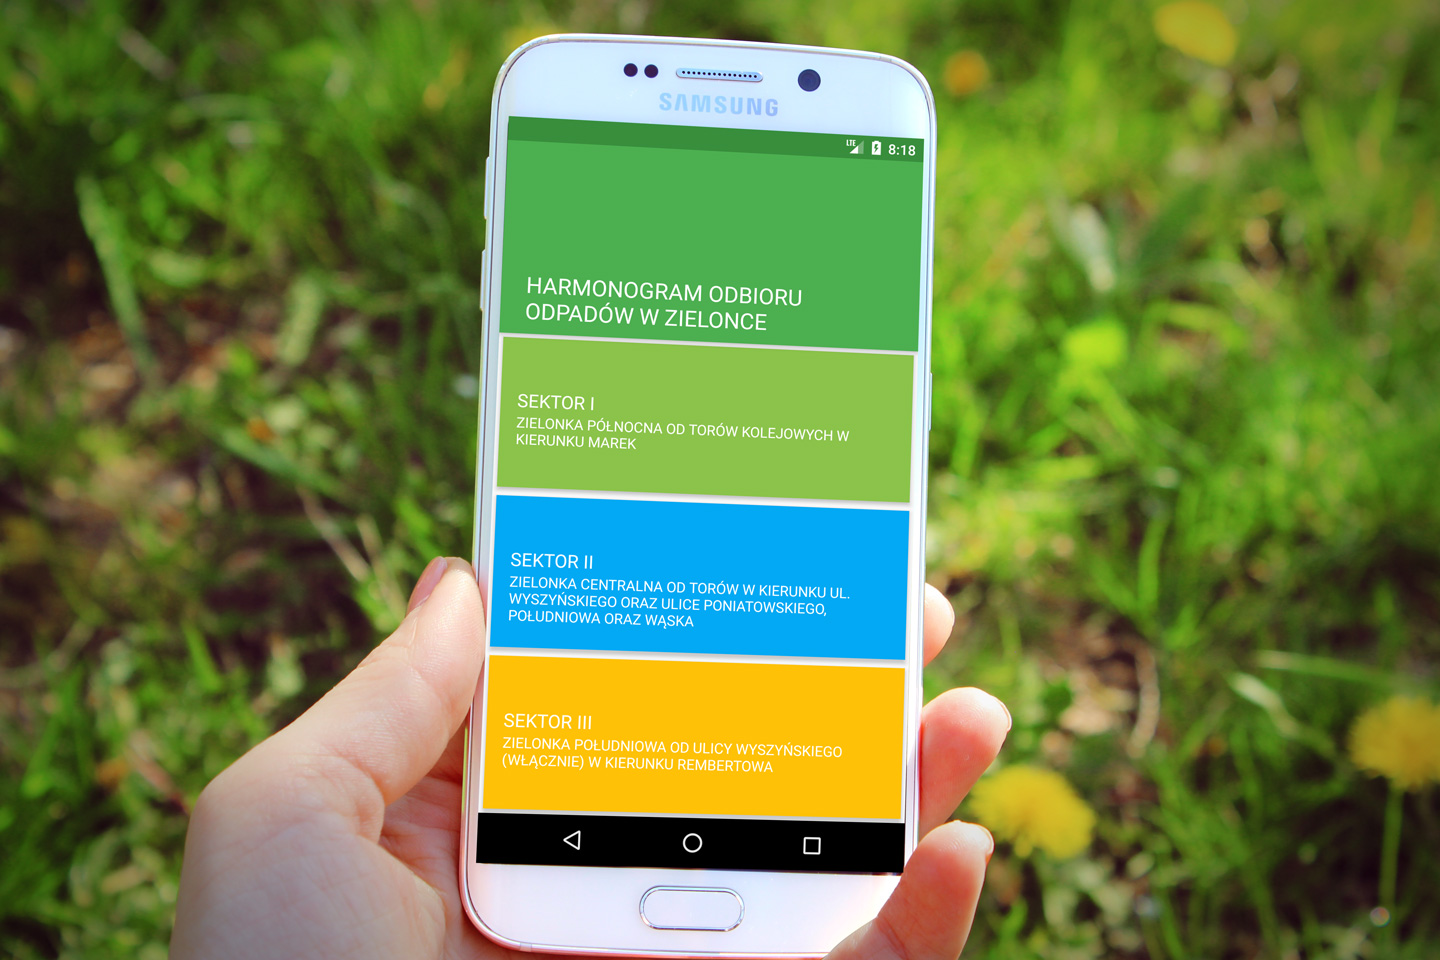
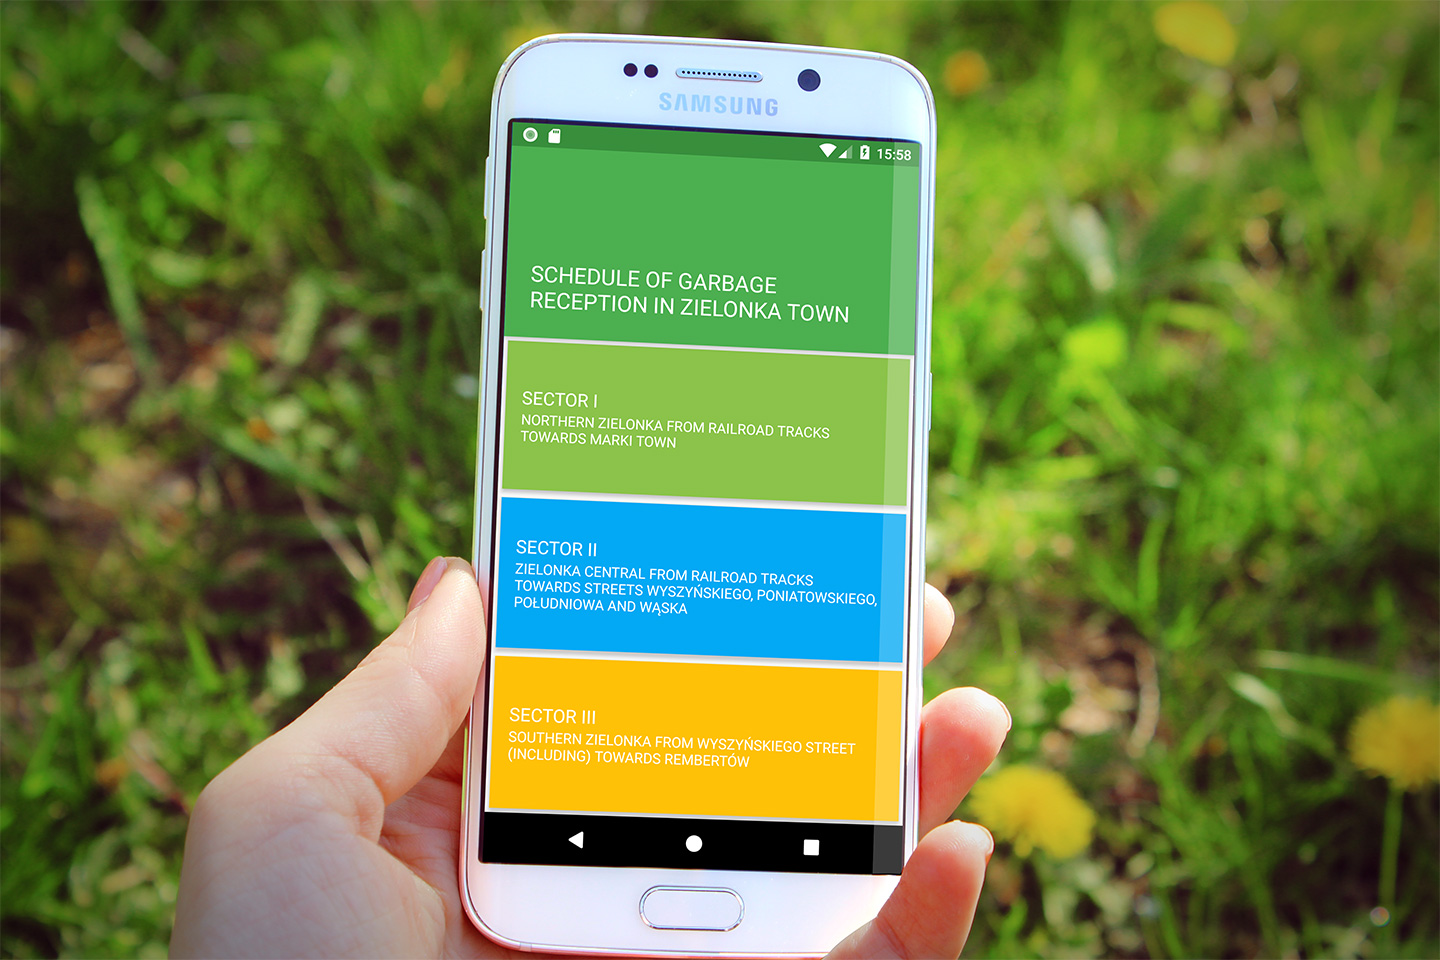
Change some text

Changed region(s): [[0.3125, 0.0938, 0.6562, 0.9375], [0.375, 0.8438, 0.4062, 0.9062]]

diff --git a/src/App.vue b/src/App.vue
@@ -2,7 +2,7 @@
   <v-app light>
     <v-content>
       <section>
-        <v-parallax class="top-parallax" src="/static/img/app-green.webp" alt="Put out the garbage on green" height="600"></v-parallax>
+        <v-parallax class="top-parallax" src="static/img/app-green.webp" alt="Put out the garbage on green" height="600"></v-parallax>
       </section>
       
       <section>
@@ -13,8 +13,8 @@
         >
           <v-flex xs12 class="mt-3">
             <div class="text-xs-center">
-              <h1 class="headline">WASTE RECEPTION SCHEDULE IN ZIELONKA CITY</h1>
-              <a href="https://play.google.com/store/apps/details?id=pl.example.android.garbageapp"><img class="mt-3" src="/static/img/google-play-badge.png" alt="Get App" height="65"></a>
+              <h1 class="headline">GARBAGE COLLECTION SCHEDULE IN THE ZIELONKA TOWN</h1>
+              <a href="https://play.google.com/store/apps/details?id=pl.example.android.garbageapp"><img class="mt-3" src="static/img/google-play-badge.png" alt="Get App" height="65"></a>
             </div>
           </v-flex>
           <v-flex xs12>
@@ -29,7 +29,7 @@
                       <div class="headline text-xs-center">Review of deadlines</div>
                     </v-card-title>
                     <v-card-text>
-                      Always valid dates of waste collection in Zielonka. With our application you can view dates of collection for all three zones.<br>
+                      Always valid dates of garbage collection in Zielonka. With our application you can view dates of collection for all three zones.<br>
                       In the first place you will always find the nearest date.
                     </v-card-text>
                   </v-card>
@@ -44,7 +44,7 @@
                     </v-card-title>
                     <v-card-text>
                       You will never forget about the putting out the garbage! Just select the notification option and the
-                      application will remind you the day before about the need to put out the right waste.
+                      application will remind you the day before about the need to put out the right garbage.
                     </v-card-text>
                   </v-card>
                 </v-flex>
@@ -57,7 +57,7 @@
                       <div class="headline text-xs-center">User friendly</div>
                     </v-card-title>
                     <v-card-text>
-                      All it takes is one click in the application to find out what is the next date of waste collection. 
+                      All it takes is one click in the application to find out what is the next date of garbage collection. 
                       Only two clicks to set notifications for the correct zone.
                     </v-card-text>
                   </v-card>
@@ -69,7 +69,7 @@
       </section>
 
       <section>
-        <v-parallax src="/static/img/app-wood.webp" alt="Wystaw śmieci on wood" height="380"></v-parallax>
+        <v-parallax src="static/img/app-wood.webp" alt="Garbage collection on wood" height="380"></v-parallax>
       </section>
 
       <section>
@@ -85,28 +85,28 @@
                     <li>
                       <strong>Grzegorz Bielański</strong> – idea and application development for Android system.
                       <a class="mx-1" href="https://www.linkedin.com/in/gbielanski/">
-                        <img class="list-img" src="/static/img/linkedin-icon-blue.png" height="16" alt="LinkedIn Logo">
+                        <img class="list-img" src="static/img/linkedin-icon-blue.png" height="16" alt="LinkedIn Logo">
                       </a> 
                       <a href="https://github.com/gbielanski">
-                        <img class="list-img" src="/static/img/github-icon-black.png" height="16" alt="GitHub Logo">
+                        <img class="list-img" src="static/img/github-icon-black.png" height="16" alt="GitHub Logo">
                       </a>
                       </li>
                     <li>
                       <strong>Tomasz Milczarek</strong> – Android application development. 
                       <a class="mx-1" href="https://www.linkedin.com/in/milto/">
-                        <img class="list-img" src="/static/img/linkedin-icon-blue.png" height="16" alt="LinkedIn Logo">
+                        <img class="list-img" src="static/img/linkedin-icon-blue.png" height="16" alt="LinkedIn Logo">
                       </a> 
                       <a href="https://github.com/miltomasz">
-                        <img class="list-img" src="/static/img/github-icon-black.png" height="16" alt="GitHub Logo">
+                        <img class="list-img" src="static/img/github-icon-black.png" height="16" alt="GitHub Logo">
                       </a>
                     </li>
                     <li>
                       <a class="black--text black-link" href="https://mysliwiec.pro/">Tomasz Myśliwiec</a> – project web page. 
                       <a class="mx-1" href="https://www.linkedin.com/in/tomekmy/">
-                        <img class="list-img" src="/static/img/linkedin-icon-blue.png" height="16" alt="LinkedIn Logo">
+                        <img class="list-img" src="static/img/linkedin-icon-blue.png" height="16" alt="LinkedIn Logo">
                       </a>
                       <a href="https://github.com/tomekmy">
-                        <img class="list-img" src="/static/img/github-icon-black.png" height="16" alt="GitHub Logo">
+                        <img class="list-img" src="static/img/github-icon-black.png" height="16" alt="GitHub Logo">
                       </a>
                     </li>
                   </ul>
@@ -124,7 +124,7 @@
                 <v-list class="transparent">
                   <v-list-tile>
                     <v-list-tile-action>
-                      <img src="/static/img/facebook-icon.png" height="24" alt="Fan page">
+                      <img src="static/img/facebook-icon.png" height="24" alt="Fan page">
                     </v-list-tile-action>
                     <v-list-tile-content>
                       <v-list-tile-title><a href="https://www.facebook.com/ZielonkaWystawSmieci/">ZielonkaWystawSmieci</a></v-list-tile-title>

diff --git a/index.html b/index.html
@@ -7,12 +7,12 @@
     <title>Put out the garbage</title>
     <meta name="description" content="Thanks to this application you will never forget about the issue of rubbish and you will have an overview of all zones and deadlines collection.">
     <meta name="keywords" content="garbage, sewage, segregated, exhibitions, zielonka">
-    <meta property="og:url" content="https://wystaw-smieci.pl">
+    <meta property="og:url" content="https://wystaw-smieci.pl/en/">
     <meta property="og:type" content="website">
     <meta property="og:title" content="Put out the garbage">
     <meta property="og:description" content="Thanks to this application you will never forget about the issue of rubbish and you will have an overview of all zones and deadlines collection.">
-    <meta property="og:image" content="https://www.wystaw-smieci.pl/static/img/app-green.jpg">
-    <link rel="canonical" href="https://wystaw-smieci.pl">
+    <meta property="og:image" content="https://wystaw-smieci.pl/static/img/app-green.jpg">
+    <link rel="canonical" href="https://wystaw-smieci.pl/en/">
     <link rel="icon" type="image/png" sizes="32x32" href="<%= htmlWebpackPlugin.files.publicPath %>static/img/icons/favicon-32x32.png">
     <link rel="icon" type="image/png" sizes="16x16" href="<%= htmlWebpackPlugin.files.publicPath %>static/img/icons/favicon-16x16.png">
     <!--[if IE]><link rel="shortcut icon" href="/static/img/icons/favicon.ico"><![endif]-->
